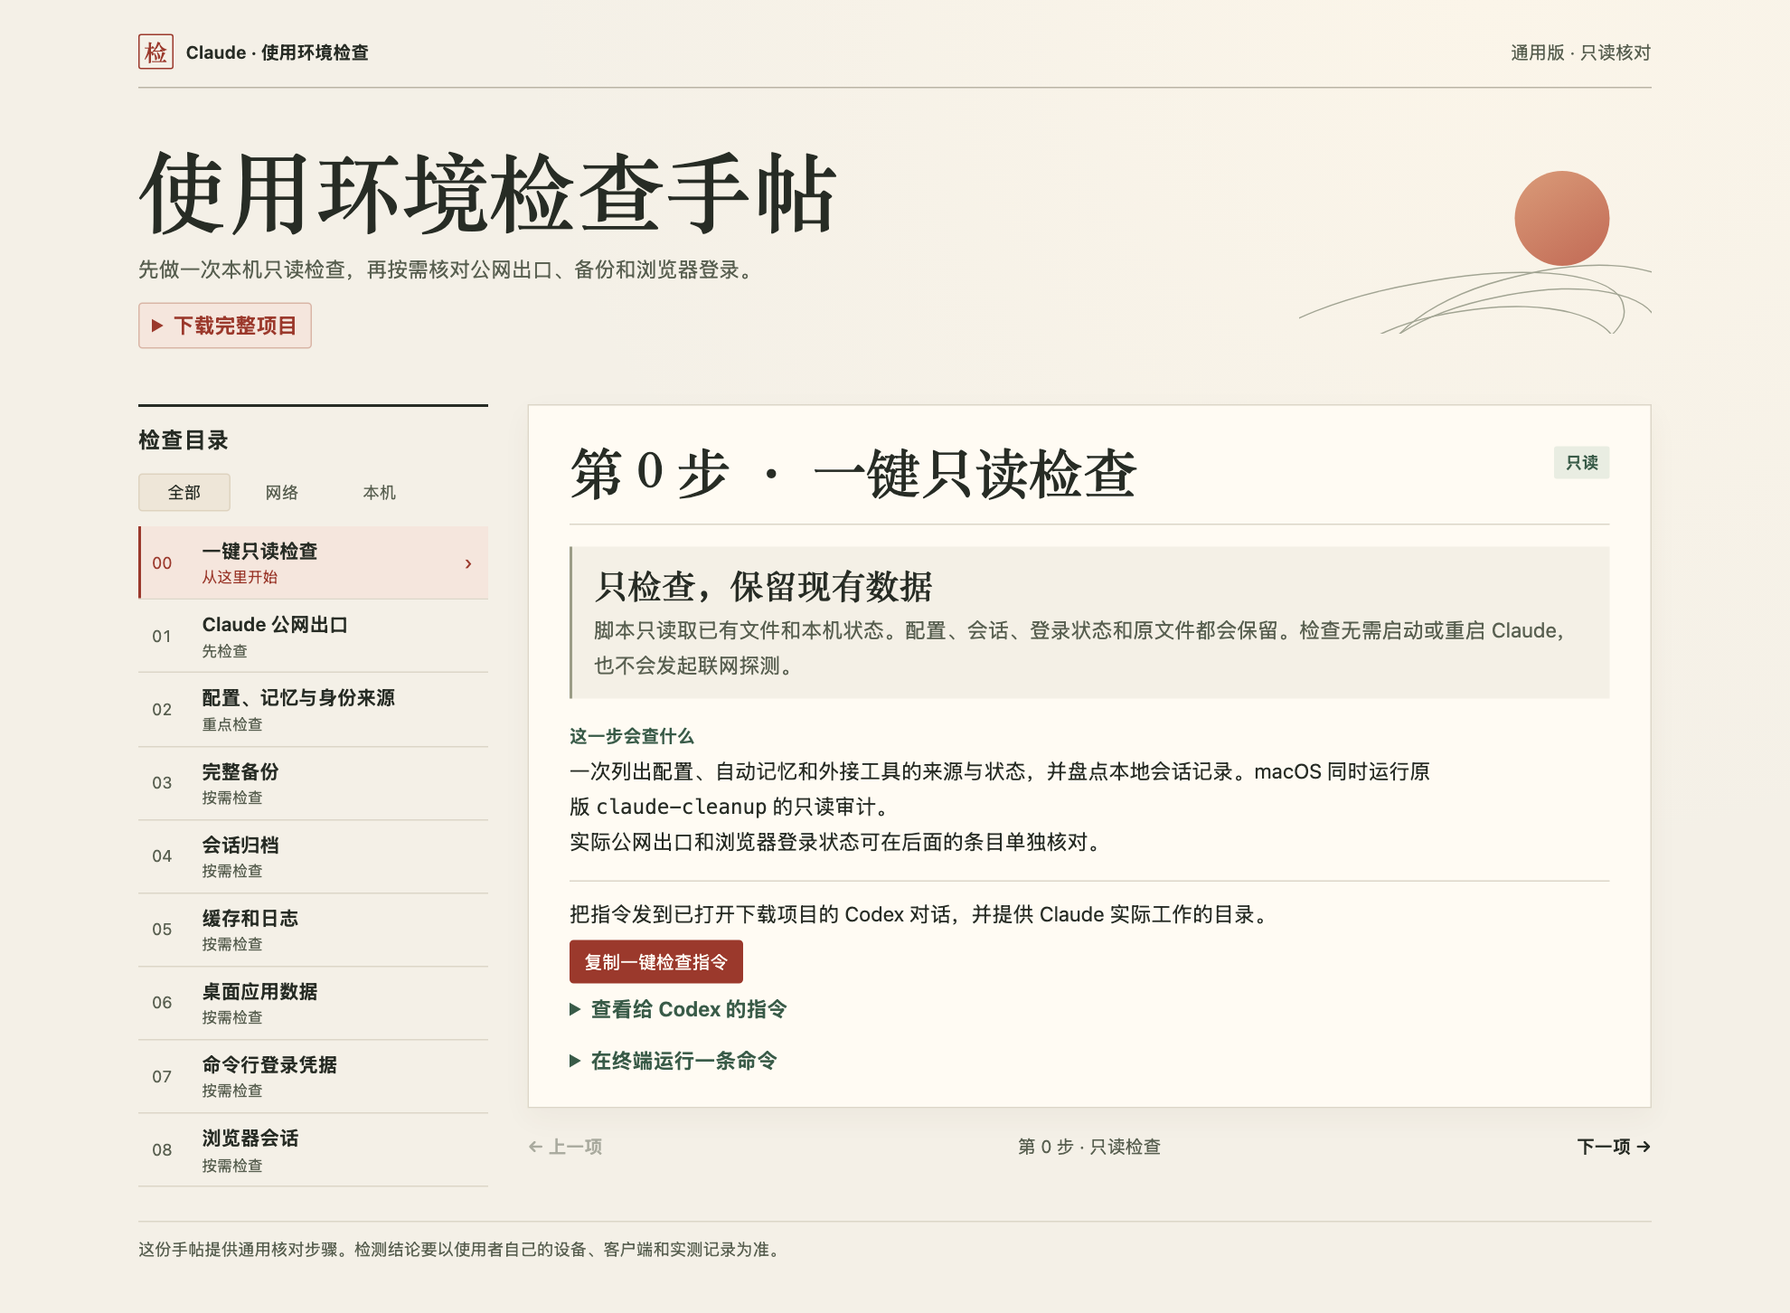
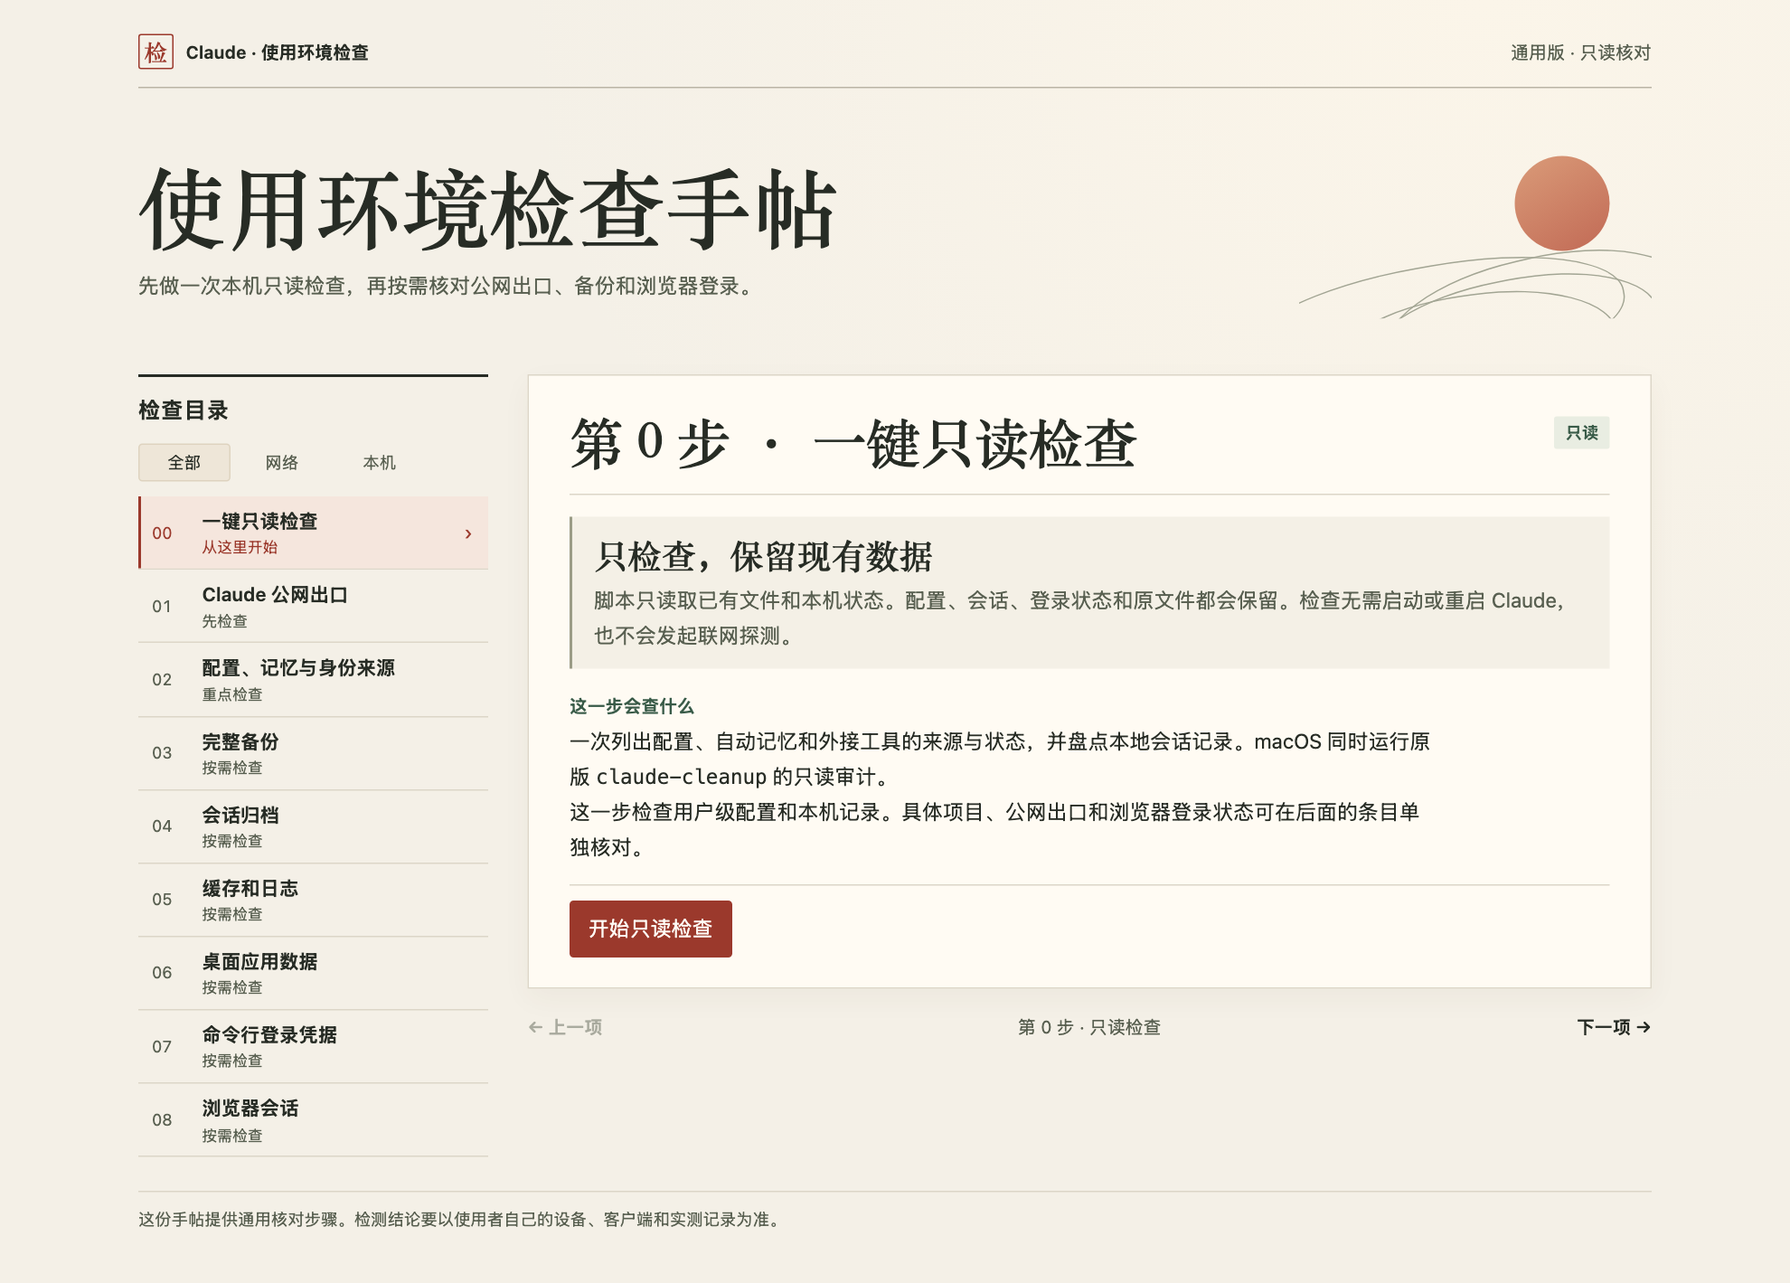
Run the read-only check directly from the local handbook

diff --git a/index.html b/index.html
@@ -3,6 +3,7 @@
 <head>
 <meta charset="utf-8">
 <meta name="viewport" content="width=device-width, initial-scale=1">
+<meta name="local-audit-token" content="">
 <title>Claude 使用环境检查手帖</title>
 <style>
 :root {
@@ -156,14 +157,22 @@ summary:hover { color: var(--verm); }
   color: var(--verm);
 }
 .codex-prompt { margin: 7px 0; padding: 10px 12px; background: #f4f0e6; white-space: pre-line; overflow-wrap: anywhere; }
-.quick-copy { margin-bottom: 12px; }
-.quick-copy > p { margin-bottom: 7px; }
-.quick-copy details { margin-top: 6px; }
 .copy-command {
   background: var(--verm); border: 1px solid var(--verm); border-radius: 3px;
   color: #fffaf4; padding: 4px 10px; cursor: pointer; font-size: 13px;
 }
 .copy-command:hover { background: #7e2b20; }
+.audit-start { font-size: 15px; padding: 7px 13px; }
+.audit-start:disabled { opacity: .65; cursor: wait; }
+.audit-status { margin-top: 7px; color: var(--muted); }
+.audit-status:empty { display: none; }
+.audit-report { margin-top: 16px; }
+.audit-report h3 { margin-bottom: 6px; }
+.audit-results { margin-top: 8px; max-height: 28rem; overflow: auto; }
+.audit-results table { width: 100%; min-width: 560px; border-collapse: collapse; font-size: 13px; }
+.audit-results th, .audit-results td { padding: 6px 8px; text-align: left; vertical-align: top; border-bottom: 1px solid var(--line); overflow-wrap: anywhere; }
+.audit-results th { position: sticky; top: 0; background: var(--ground); }
+.audit-results td:first-child { white-space: nowrap; }
 .copy-status { display: block; margin-top: 4px; color: var(--muted); font-size: 12px; }
 .copy-status:empty { display: none; }
 pre {
@@ -256,7 +265,7 @@ footer { margin-top: 25px; border-top: 1px solid var(--line); padding-top: 10px;
         <pre><code class="clone-command">git clone https://github.com/huangserva/claude-environment-checklist.git</code></pre>
         <button class="copy-command" type="button" hidden>复制下载命令</button>
         <span class="copy-status" role="status"></span>
-        <p>下载后，双击文件夹中的 <code>index.html</code>，选择一项检查，再按页面执行。</p>
+        <p>下载后，双击文件夹中的 <code>Start-Checklist.command</code>（macOS）或 <code>Start-Checklist.cmd</code>（Windows）。</p>
       </details>
     </div>
     <div class="hero-art" aria-hidden="true"><span class="sun"></span><span class="ridges"><span></span><span></span><span></span><span></span></span></div>
@@ -330,35 +339,29 @@ footer { margin-top: 25px; border-top: 1px solid var(--line); padding-top: 10px;
         <div class="todo">
           <h3>这一步会查什么</h3>
           <p>一次列出配置、自动记忆和外接工具的来源与状态，并盘点本地会话记录。macOS 同时运行原版 <code>claude-cleanup</code> 的只读审计。</p>
-          <p>实际公网出口和浏览器登录状态可在后面的条目单独核对。</p>
+          <p>这一步检查用户级配置和本机记录。具体项目、公网出口和浏览器登录状态可在后面的条目单独核对。</p>
         </div>
-        <div class="details-stack">
-          <div class="codex-action quick-copy">
-            <p>把指令发到已打开下载项目的 Codex 对话，并提供 Claude 实际工作的目录。</p>
-            <button class="copy-command" type="button" hidden>复制一键检查指令</button>
-            <span class="copy-status" role="status"></span>
-            <details>
-              <summary>查看给 Codex 的指令</summary>
-              <p class="codex-prompt">请运行第 0 步的整合只读脚本 audit_context.py，一次检查本机配置、记忆和外接工具。以我提供的 Claude 工作目录为检查目标。还没有路径时，先问我要查哪个目录。只汇总发现的来源和状态，保留现有文件、会话和登录状态。</p>
-            </details>
-          </div>
+        <div class="details-stack" id="audit-preview">
+          <p>要开始检查，请先在下载的项目文件夹启动本地手帖。电脑需有 Python 3.9 或更新版本。</p>
+          <p>macOS 双击 <code>Start-Checklist.command</code>，Windows 双击 <code>Start-Checklist.cmd</code>。浏览器打开后，点「开始只读检查」。</p>
           <details>
-            <summary>在终端运行一条命令</summary>
-            <p>安装 Python 3 后，在下载的项目文件夹打开终端。把命令里的示例路径换成 Claude 实际工作的目录。</p>
-            <div class="audit-command">
-              <p>macOS 或 Linux</p>
-              <pre><code>python3 -B audit_context.py --project "/Claude实际工作的项目目录"</code></pre>
-              <button class="copy-command" type="button" hidden>复制 macOS 或 Linux 命令</button>
-              <span class="copy-status" role="status"></span>
-            </div>
-            <div class="audit-command">
-              <p>Windows PowerShell</p>
-              <pre><code>py -3 -B audit_context.py --project "C:\Claude实际工作的项目目录"</code></pre>
-              <button class="copy-command" type="button" hidden>复制 Windows 命令</button>
-              <span class="copy-status" role="status"></span>
-            </div>
-            <p class="check-note"><code>-B</code> 禁止写入 Python 字节码缓存，<code>--project</code> 指定检查的目录。Windows 的 <code>-3</code> 指定 Python 3。结果显示在终端。</p>
+            <summary>Linux 怎么打开</summary>
+            <p>在项目文件夹打开终端，运行 <code>python3 -B launch_checklist.py</code>。<code>-B</code> 禁止写入 Python 字节码缓存。</p>
           </details>
+        </div>
+        <div class="details-stack" id="audit-controls" hidden>
+          <button class="copy-command audit-start" id="start-audit" type="button">开始只读检查</button>
+          <p class="audit-status" id="audit-status" role="status"></p>
+          <div class="audit-report" id="audit-report" hidden>
+            <h3>本机检查结果</h3>
+            <p id="audit-cleanup"></p>
+            <div class="audit-results" role="region" aria-label="本机检查结果明细" tabindex="0">
+              <table>
+                <thead><tr><th scope="col">状态</th><th scope="col">检查项</th><th scope="col">来源</th><th scope="col">说明</th></tr></thead>
+                <tbody id="audit-rows"></tbody>
+              </table>
+            </div>
+          </div>
         </div>
       </article>
       <article class="sheet" id="network-egress" data-state="network" aria-labelledby="network-egress-title">
@@ -809,10 +812,6 @@ curl.exe -q --max-time 10 --fail --silent --show-error https://ping0.cc/</code><
   const projectDownload = document.querySelector('.project-download');
   enableCopy(projectDownload, projectDownload.querySelector('.clone-command'), '终端');
 
-  for (const command of document.querySelectorAll('.audit-command')) {
-    enableCopy(command, command.querySelector('code'), '终端');
-  }
-
   for (const action of document.querySelectorAll('.codex-action')) {
     const prompt = action.querySelector('.codex-prompt');
     const section = action.closest('.sheet').id;
@@ -821,6 +820,57 @@ curl.exe -q --max-time 10 --fail --silent --show-error https://ping0.cc/</code><
       + '技能已加载时，先打开下载项目中的 index.html#' + section + '，再执行下面的只读核对。';
     prompt.textContent = entry + '\n\n' + prompt.textContent.trim();
     enableCopy(action, prompt, 'Codex 对话');
+  }
+
+  const auditToken = document.querySelector('meta[name="local-audit-token"]').content;
+  if (auditToken) {
+    const startAudit = document.querySelector('#start-audit');
+    const auditStatus = document.querySelector('#audit-status');
+    const auditReport = document.querySelector('#audit-report');
+    const auditRows = document.querySelector('#audit-rows');
+    projectDownload.hidden = true;
+    document.querySelector('#audit-preview').hidden = true;
+    document.querySelector('#audit-controls').hidden = false;
+
+    startAudit.addEventListener('click', async () => {
+      startAudit.disabled = true;
+      auditReport.hidden = true;
+      auditStatus.textContent = '正在读取本机文件，请稍等。';
+      try {
+        const response = await fetch('/audit', {
+          method: 'POST',
+          headers: {'X-Checklist-Token': auditToken}
+        });
+        const report = await response.json();
+        if (!response.ok) {
+          auditStatus.textContent = report.error || '检查无法完成，请重新启动本地手帖。';
+          return;
+        }
+        const rows = document.createDocumentFragment();
+        for (const finding of report.results) {
+          const row = document.createElement('tr');
+          for (const field of ['status', 'category', 'source', 'detail']) {
+            const cell = document.createElement('td');
+            cell.textContent = finding[field];
+            row.append(cell);
+          }
+          rows.append(row);
+        }
+        auditRows.replaceChildren(rows);
+        const cleanup = report.cleanup_audit;
+        const note = cleanup.scope
+          ? `缓存和日志候选 ${cleanup.cache_log_candidates.length} 项，桌面数据位置 ${cleanup.desktop_data_candidates.length} 项。详见「缓存和日志」与「桌面应用数据」。`
+          : cleanup.detail;
+        document.querySelector('#audit-cleanup').textContent =
+          `原版 claude-cleanup 审计 · ${cleanup.status}。${note}`;
+        auditStatus.textContent = `检查完成，共 ${report.results.length} 条。结果仅显示在本页。`;
+        auditReport.hidden = false;
+      } catch {
+        auditStatus.textContent = '本地手帖连接中断，请双击启动文件重新打开。';
+      } finally {
+        startAudit.disabled = false;
+      }
+    });
   }
 
   const evidenceCheck = document.querySelector('.evidence-check');

diff --git a/launch_checklist.py b/launch_checklist.py
@@ -1,0 +1,124 @@
+"""Serve the checklist locally and run the fixed read-only audit on demand."""
+
+import json
+from http import HTTPStatus
+from http.server import BaseHTTPRequestHandler, ThreadingHTTPServer
+from pathlib import Path
+import secrets
+import subprocess
+import sys
+from threading import Lock, Thread
+import webbrowser
+
+
+ROOT = Path(__file__).resolve().parent
+TOKEN_TAG = b'<meta name="local-audit-token" content="">'
+CONTENT_POLICY = (
+    "default-src 'none'; script-src 'unsafe-inline'; style-src 'unsafe-inline'; "
+    "connect-src 'self'; base-uri 'none'; form-action 'none'; frame-ancestors 'none'"
+)
+
+
+def run_audit():
+    result = subprocess.run(
+        [sys.executable, "-B", str(ROOT / "audit_context.py"),
+         "--project", str(Path.home()), "--json"],
+        cwd=ROOT,
+        stdout=subprocess.PIPE,
+        stderr=subprocess.DEVNULL,
+        encoding="utf-8",
+        timeout=60,
+        check=True,
+    )
+    report = json.loads(result.stdout)
+    if not isinstance(report, dict) or report.get("mode") != "read-only":
+        raise ValueError("Unexpected audit output")
+    return report
+
+
+class ChecklistServer(ThreadingHTTPServer):
+    def __init__(self):
+        self.token = secrets.token_urlsafe(32)
+        page = (ROOT / "index.html").read_bytes()
+        if page.count(TOKEN_TAG) != 1:
+            raise ValueError("Missing local checklist entry")
+        local_tag = f'<meta name="local-audit-token" content="{self.token}">'.encode()
+        self.page = page.replace(TOKEN_TAG, local_tag)
+        self.audit_lock = Lock()
+        super().__init__(("127.0.0.1", 0), ChecklistHandler)
+        self.host = f"127.0.0.1:{self.server_port}"
+        self.origin = f"http://{self.host}"
+
+
+class ChecklistHandler(BaseHTTPRequestHandler):
+    def setup(self):
+        self.request.settimeout(8)
+        super().setup()
+
+    def log_message(self, *_):
+        pass
+
+    def respond(self, status, body, content_type="application/json; charset=utf-8"):
+        self.send_response(status)
+        self.send_header("Content-Type", content_type)
+        self.send_header("Content-Length", str(len(body)))
+        self.send_header("Cache-Control", "no-store")
+        self.send_header("Content-Security-Policy", CONTENT_POLICY)
+        self.send_header("Referrer-Policy", "no-referrer")
+        self.send_header("X-Content-Type-Options", "nosniff")
+        self.end_headers()
+        self.wfile.write(body)
+
+    def json_response(self, status, payload):
+        self.respond(status, json.dumps(payload, ensure_ascii=False).encode("utf-8"))
+
+    def do_GET(self):
+        if self.headers.get("Host") == self.server.host and self.path == "/":
+            self.respond(HTTPStatus.OK, self.server.page, "text/html; charset=utf-8")
+            return
+        self.json_response(HTTPStatus.NOT_FOUND, {})
+
+    def do_POST(self):
+        if self.path != "/audit":
+            self.json_response(HTTPStatus.NOT_FOUND, {})
+            return
+        if (
+            self.headers.get("Host") != self.server.host
+            or self.headers.get("Origin") != self.server.origin
+            or not secrets.compare_digest(
+                self.headers.get("X-Checklist-Token", "").encode(), self.server.token.encode()
+            )
+            or self.headers.get("Content-Length", "0") != "0"
+            or self.headers.get("Transfer-Encoding") is not None
+        ):
+            self.json_response(HTTPStatus.FORBIDDEN, {})
+            return
+        if not self.server.audit_lock.acquire(blocking=False):
+            self.json_response(HTTPStatus.CONFLICT, {"error": "已有检查在运行，请稍等后重试。"})
+            return
+        try:
+            report = run_audit()
+        except subprocess.TimeoutExpired:
+            self.json_response(HTTPStatus.GATEWAY_TIMEOUT, {"error": "检查超时，可以重试。"})
+            return
+        except (OSError, subprocess.CalledProcessError, ValueError):
+            self.json_response(HTTPStatus.INTERNAL_SERVER_ERROR, {"error": "检查无法完成，请核对本机配置目录的读取权限。"})
+            return
+        finally:
+            self.server.audit_lock.release()
+        self.json_response(HTTPStatus.OK, report)
+
+
+def main():
+    with ChecklistServer() as server:
+        print(f"打开本地手帖 {server.origin}/", flush=True)
+        print("关闭这个终端窗口即可退出手帖。", flush=True)
+        Thread(target=webbrowser.open, args=(f"{server.origin}/",), daemon=True).start()
+        try:
+            server.serve_forever()
+        except KeyboardInterrupt:
+            pass
+
+
+if __name__ == "__main__":
+    main()

diff --git a/README.md b/README.md
@@ -4,7 +4,7 @@
 
 ## 下载项目，打开手帖
 
-**先下载完整项目，再打开里面的网页，按条目执行。** 下载时会一起拿到网页、Codex 技能和只读脚本。
+**下载完整项目，双击启动文件，点「开始只读检查」。** 结果直接显示在手帖里。电脑需要 Python 3.9 或更新版本。
 
 1. **下载项目。** 在终端运行下面这条克隆命令。已经克隆的用户可以先拉取最新版本。
 
@@ -12,8 +12,8 @@
    git clone https://github.com/huangserva/claude-environment-checklist.git
    ```
 
-2. **打开网页。** 在下载得到的 `claude-environment-checklist` 文件夹里，双击 `index.html`。也可以用 Codex 打开这个文件夹，在聊天里选择 `$claude-environment-checklist` 技能并发送，技能会优先打开本地手帖。[查看技能文件](.agents/skills/claude-environment-checklist/SKILL.md)
-3. **从第 0 步开始。** 首页会先显示「一键只读检查」。复制一条命令到终端运行，或把检查指令发给已经打开本项目的 Codex。配置、会话、登录状态和原文件都会保留。需要查公网出口或浏览器会话时，再从左侧选择对应条目。[预览第 0 步](https://huangserva.github.io/claude-environment-checklist/#quick-audit)
+2. **启动本地手帖。** macOS 双击 `Start-Checklist.command`，Windows 双击 `Start-Checklist.cmd`。Linux 在项目文件夹运行 `python3 -B launch_checklist.py`，其中 `-B` 禁止写入 Python 字节码缓存。启动器会用浏览器打开手帖。
+3. **点「开始只读检查」。** 第 0 步会盘点用户级配置、记忆、外接工具和本机会话记录，结果直接显示在本地页面。关闭启动器的终端窗口即可退出手帖。
 
 如果你现在只在聊天里贴了 GitHub 链接，可以先发这一句。
 
@@ -21,7 +21,7 @@
 
 [预览网页手帖](https://huangserva.github.io/claude-environment-checklist/)
 
-[![Claude 使用环境检查手帖首页，左侧为检查目录，右侧显示第 0 步一键只读检查](assets/homepage.png)](https://huangserva.github.io/claude-environment-checklist/)
+[![本地手帖首页，右侧的第 0 步可以点击开始只读检查](assets/homepage.png)](https://huangserva.github.io/claude-environment-checklist/)
 
 ## 遇到什么问题，从哪一项查
 
@@ -39,11 +39,13 @@
 
 ### 打开网页逐项核对
 
-打开下载项目中的 `index.html`，从左侧目录选择你遇到的问题，按该项的步骤操作。展开「交给 Codex」可以复制该项的技能调用和只读核对指令。查公网出口和浏览器网站数据时，从这个入口开始。
+从手帖左侧选择你遇到的问题，再按该项的步骤操作。公网出口、浏览器网站数据和具体项目配置可在对应条目单独检查。只想浏览时，可以直接打开 `index.html`。
 
-### 在终端独立运行只读脚本
+### 用 Codex 或终端检查具体项目
 
-安装 Python 3 后，在下载的 `claude-environment-checklist` 文件夹打开终端，运行其中的脚本。把示例路径换成 Claude 实际工作的项目目录。[第 0 步 · 一键只读检查](https://huangserva.github.io/claude-environment-checklist/#quick-audit)
+可以在 Codex 中打开下载的项目，调用 `$claude-environment-checklist`。手帖各条目也提供「交给 Codex」的指令。[查看技能文件](.agents/skills/claude-environment-checklist/SKILL.md)
+
+从终端执行时，在下载的 `claude-environment-checklist` 文件夹运行下面的命令。把示例路径换成 Claude 实际工作的项目目录。
 
 **macOS 或 Linux**
 

diff --git a/AGENTS.md b/AGENTS.md
@@ -4,4 +4,4 @@
 
 用户只说「帮我检查一下」、贴手帖链接或问怎么开始时，先打开手帖首页，有具体问题就打开对应条目，并标出下一步从哪里开始。实际读取本机数据或执行检查命令前，先让用户选定要执行的检查。用户已经明确指定检查并要求执行时，先打开对应条目，再按请求范围进行只读检查。
 
-用户问是否要下载时，说明本项目的使用顺序是克隆完整仓库、打开下载里的 `index.html`、选择条目后按页面执行。使用 Codex 协助时，在 Codex 中打开下载的目录再调用技能。线上网页可预览手帖。
+用户问如何开始时，说明本项目的使用顺序是克隆完整仓库、双击系统对应的启动文件，再在打开的网页点「开始只读检查」。macOS 用 `Start-Checklist.command`，Windows 用 `Start-Checklist.cmd`，Linux 在项目目录运行 `python3 -B launch_checklist.py`。使用 Codex 协助时，在 Codex 中打开下载的目录再调用技能。
